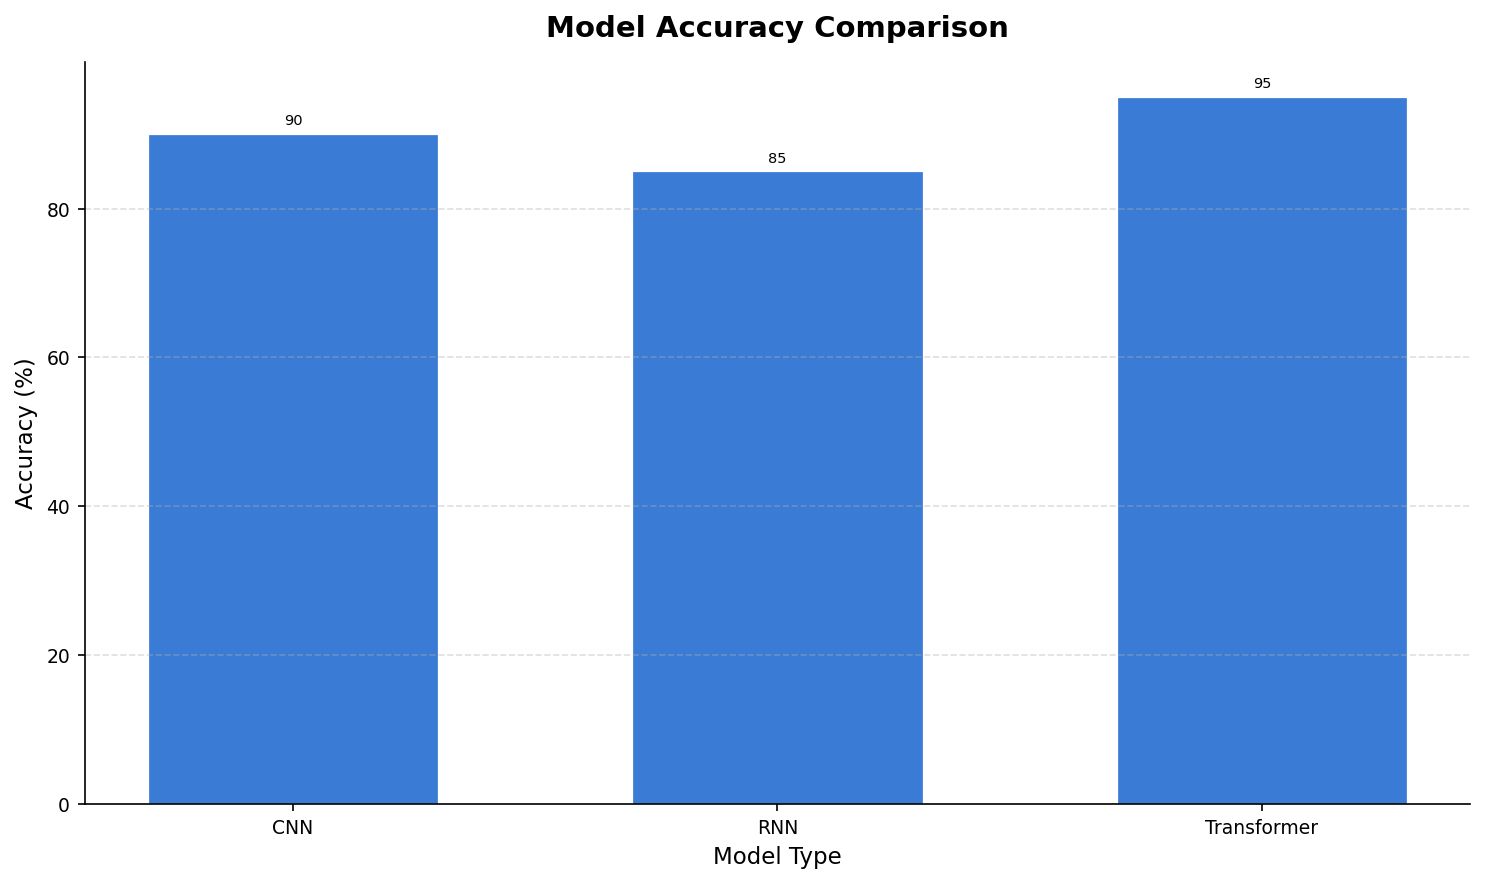
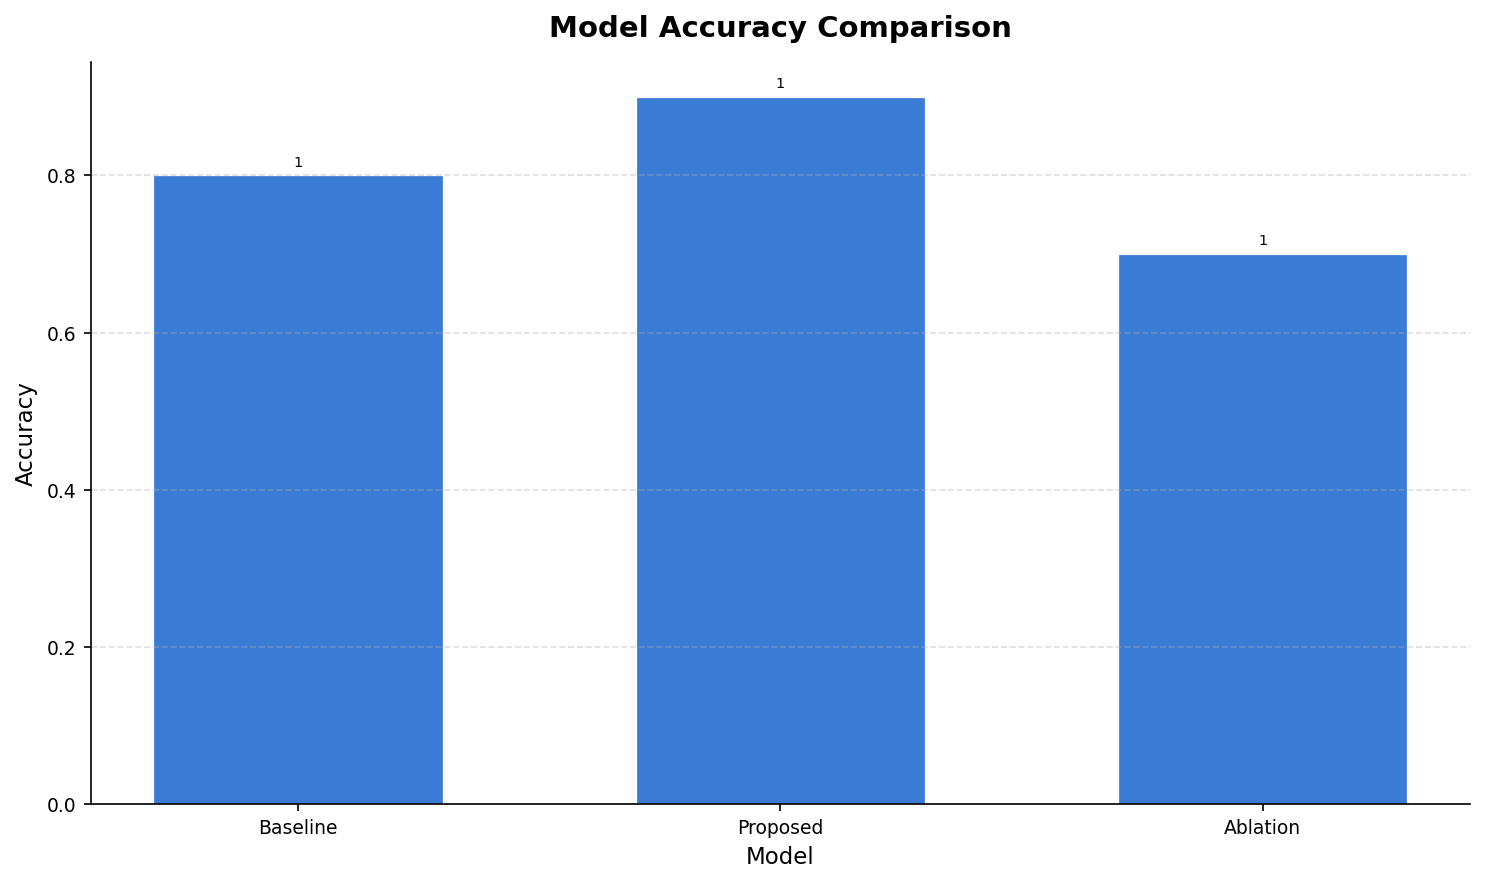
fix : fixing the download for visualisations ,and the upload of papers

diff --git a/orchestrator/nodes/literature_node.py b/orchestrator/nodes/literature_node.py
@@ -1,15 +1,14 @@
 """
 orchestrator/nodes/literature_node.py
 ──────────────────────────────────────
-Calls LiteratureAgent directly.
+Calls LiteratureAgent directly — avoids file I/O round-trip.
 
-Web resource handling is now entirely delegated to the literature agent:
-  • grounded_only=True  → agent uses ChromaDB / local PDFs only
-  • grounded_only=False → agent fetches web resources itself
+If search_results are already in state (populated by search_node),
+their PDF/abstract URLs are extracted and passed as web_urls so the
+LiteratureAgent can fetch and chunk them via process_web_resources.
 
-The orchestrator no longer extracts URLs from search_results or
-passes web_urls — that logic lived here only to compensate for the
-old search_node detour, which has been removed.
+This is the only interface the unmodified LiteratureAgent exposes for
+injecting external content — AgentInput.use_web_resources + web_urls.
 """
 
 from __future__ import annotations
@@ -22,6 +21,36 @@ from literature_agent.agent import LiteratureAgent
 from literature_agent.config import AgentInput
 
 logger = logging.getLogger(__name__)
+
+# Maximum number of paper URLs to feed into the agent.
+# process_web_resources fetches each URL synchronously, so keep this
+# bounded to avoid multi-minute runtimes.
+_MAX_WEB_URLS = 8
+
+
+def _extract_urls_from_papers(papers: list[dict]) -> list[str]:
+    """
+    Pull the best available URL out of each search-result paper dict.
+
+    Priority order:
+      1. pdf_link  — direct PDF (highest quality for chunking)
+      2. url       — abstract / landing page (fallback)
+
+    Only HTTP(S) URLs are included; None / empty strings are skipped.
+    Deduplication preserves order.
+    """
+    seen: set[str] = set()
+    urls: list[str] = []
+
+    for paper in papers:
+        for key in ("pdf_link", "url"):
+            candidate = (paper.get(key) or "").strip()
+            if candidate.startswith("http") and candidate not in seen:
+                seen.add(candidate)
+                urls.append(candidate)
+                break               # one URL per paper is enough
+
+    return urls[:_MAX_WEB_URLS]
 
 
 def _run_agent(input_data: AgentInput):
@@ -37,7 +66,7 @@ def literature_node(state: GraphState) -> dict:
     prefs = state.get("preferences", {})
     instruction = state.get("instruction") or state["user_message"]
 
-    # ── Append HITL feedback when regenerating ────────────────────────────────
+    # ── Build query (append HITL feedback when regenerating) ─────────────────
     query = instruction
     if state.get("hitl_feedback"):
         query = f"{query}\n\nFeedback: {state['hitl_feedback']}"
@@ -45,21 +74,57 @@ def literature_node(state: GraphState) -> dict:
     citation_style = prefs.get("citation_style", "APA")
     grounded_only = prefs.get("grounded_only", False)
 
-    # ── Delegate entirely to the literature agent ─────────────────────────────
-    # grounded_only=True  → use_web_resources=False → ChromaDB / local PDFs only
-    # grounded_only=False → use_web_resources=True  → agent fetches web resources
-    # web_urls is always empty — the agent resolves its own sources internally
+    # ── Derive web_urls from search_results ───────────────────────────────────
+    # search_node populates state["search_results"] as List[dict] with keys:
+    #   title, authors, abstract, pdf_link, url, year, citations, source
+    #
+    # The unmodified LiteratureAgent has NO pre_fetched_papers parameter.
+    # Its only external-content hook is:
+    #   AgentInput(use_web_resources=True, web_urls=[...])
+    # which routes through load_documents → process_web_resources.
+    #
+    # So we convert paper records → URLs here in the orchestrator layer.
+    pre_fetched_papers = state.get("search_results") or []
+    web_urls: list[str] = []
+
+    if pre_fetched_papers and not grounded_only:
+        web_urls = _extract_urls_from_papers(pre_fetched_papers)
+        logger.info(
+            "literature_node: extracted %d web_urls from %d search_results",
+            len(web_urls), len(pre_fetched_papers),
+        )
+
+    # use_web_resources must be True whenever we have URLs to fetch,
+    # regardless of the grounded_only flag (grounded_only only suppresses
+    # the upstream search_node — if we already have results we use them).
+    use_web_resources = bool(web_urls) or (not grounded_only)
+
+    # ── Resolve papers_folder for locally uploaded PDFs ──────────────────────
+    # Uploads are stored in uploads/{project_id}/ (absolute path).
+    # Pass this as papers_folder so AgentConfig reads the right directory.
+    from pathlib import Path as _Path
+    upload_dir = _Path("uploads").resolve() / project_id
+    papers_folder = str(upload_dir) if upload_dir.exists() else None
+
     input_data = AgentInput(
         query=query,
         citation_style=citation_style,
-        use_web_resources=not grounded_only,
+        use_web_resources=use_web_resources,
         use_ocr=False,
-        web_urls=[],
+        web_urls=web_urls,          # ← online papers from search_node
     )
 
+    # Override papers_folder on the agent config if we have local uploads
+    if papers_folder:
+        logger.info(
+            "literature_node: using local papers_folder=%s", papers_folder
+        )
+        import os as _os
+        _os.environ["LITERATURE_PAPERS_FOLDER"] = papers_folder
+
     logger.info(
-        "literature_node: calling agent | use_web_resources=%s | query=%r",
-        not grounded_only, query[:80],
+        "literature_node: calling agent | use_web_resources=%s | %d urls | query=%r",
+        use_web_resources, len(web_urls), query[:80],
     )
 
     try:
@@ -69,8 +134,9 @@ def literature_node(state: GraphState) -> dict:
         return {"error": f"Literature agent error: {exc}", "agent_output": None}
 
     if not output.success:
-        logger.error("Literature agent returned failure: %s",
-                     output.error_message)
+        logger.error(
+            "Literature agent returned failure: %s", output.error_message
+        )
         return {"error": output.error_message, "agent_output": None}
 
     # ── Persist to DB ─────────────────────────────────────────────────────────
@@ -118,6 +184,15 @@ def literature_node(state: GraphState) -> dict:
             f"\n\n⚠ **Verification: {overall}** — "
             f"{unverified_count} claim(s) could not be grounded in source documents."
         )
+
+    # ── Debug (keep until stable) ─────────────────────────────────────────────
+    print(f"\n🔍 output.success       = {output.success}")
+    print(f"🔍 output.error_message = {repr(output.error_message)}")
+    print(f"🔍 web_urls fed         = {web_urls}")
+    print(
+        f"🔍 output.literature_review length  = {len(output.literature_review or '')}")
+    print(
+        f"🔍 output.literature_review preview = {repr((output.literature_review or '')[:200])}")
 
     existing = state.get("agent_outputs", {})
 

diff --git a/api/routes/uploads.py b/api/routes/uploads.py
@@ -3,11 +3,18 @@ api/routes/uploads.py
 ──────────────────────
 PDF upload management for the LiteratureAgent.
 
-The LiteratureAgent reads PDFs from config.papers_folder (set in AgentConfig).
-We store uploaded files under:
-    uploads/{project_id}/
+Critical design note
+─────────────────────
+LiteratureAgent.load_documents() reads from AgentConfig.papers_folder.
+We must store uploads in that exact folder so the agent finds them.
 
-This keeps papers scoped per project so different projects don't share PDFs.
+The literature_node passes web_urls extracted from search_results for
+online papers. For LOCAL uploaded PDFs, the agent reads them from disk
+via load_documents() → process_pdfs_with_metadata().
+
+Upload path: uploads/{project_id}/{filename}.pdf
+This path is passed to literature_node via state["preferences"]["papers_folder"]
+so AgentConfig can be initialized with the correct folder per project.
 """
 
 from __future__ import annotations
@@ -18,15 +25,17 @@ from pathlib import Path
 from fastapi import APIRouter, Depends, HTTPException, Response, UploadFile, File
 
 from api.dependencies import verify_project_access
+from database import repository as repo
 
 router = APIRouter(tags=["uploads"])
 
-# Base upload directory — matches what LiteratureAgent's AgentConfig points to.
-# Override in settings if needed.
-_UPLOAD_BASE = Path("uploads")
+# Base upload directory — one subfolder per project
+# absolute so agent can always find it
+_UPLOAD_BASE = Path("uploads").resolve()
 
 
 def _project_dir(project_id: str) -> Path:
+    """Return and create the upload directory for a project."""
     d = _UPLOAD_BASE / project_id
     d.mkdir(parents=True, exist_ok=True)
     return d
@@ -42,23 +51,35 @@ async def upload_pdf(
 ) -> dict:
     """
     Upload a PDF for the literature agent to process.
-    Accepts only .pdf files. Max size enforced by the web server (nginx/uvicorn).
+    File is saved to uploads/{project_id}/ with its original name.
+    Duplicate filenames are overwritten (idempotent).
     """
     if not file.filename or not file.filename.lower().endswith(".pdf"):
         raise HTTPException(
             status_code=400, detail="Only PDF files are accepted")
 
-    dest = _project_dir(project_id) / file.filename
+    # Sanitize filename — strip path components to prevent directory traversal
+    safe_name = Path(file.filename).name
+    if not safe_name or not safe_name.lower().endswith(".pdf"):
+        raise HTTPException(status_code=400, detail="Invalid filename")
+
+    dest = _project_dir(project_id) / safe_name
     try:
-        with dest.open("wb") as f:
-            shutil.copyfileobj(file.file, f)
+        with dest.open("wb") as out:
+            shutil.copyfileobj(file.file, out)
+    except OSError as exc:
+        raise HTTPException(
+            status_code=500, detail=f"Could not save file: {exc}")
     finally:
         await file.close()
 
     return {
-        "filename":   file.filename,
-        "path":       str(dest),
-        "project_id": project_id,
+        "filename":     safe_name,
+        "path":         str(dest),          # absolute path
+        "project_id":   project_id,
+        "size_bytes":   dest.stat().st_size,
+        # pass this to literature agent
+        "papers_folder": str(_project_dir(project_id)),
     }
 
 
@@ -68,17 +89,26 @@ async def upload_pdf(
 def list_pdfs(
     project_id: str,
     project: dict = Depends(verify_project_access),
-) -> list[dict]:
-    """List all PDFs uploaded for this project."""
+) -> dict:
+    """
+    List all PDFs uploaded for this project.
+    Also returns papers_folder so the frontend knows where to point the agent.
+    """
     d = _project_dir(project_id)
-    return [
+    files = [
         {
-            "filename": p.name,
+            "filename":   p.name,
             "size_bytes": p.stat().st_size,
-            "path": str(p),
+            "path":       str(p),
         }
         for p in sorted(d.glob("*.pdf"))
     ]
+    return {
+        "project_id":    project_id,
+        "papers_folder": str(d),
+        "count":         len(files),
+        "files":         files,
+    }
 
 
 # ── Delete ────────────────────────────────────────────────────────────────────
@@ -90,10 +120,15 @@ def delete_pdf(
     project: dict = Depends(verify_project_access),
 ) -> Response:
     """Remove a specific PDF from the project's upload folder."""
-    target = _project_dir(project_id) / filename
-    if not target.exists():
+    # Sanitize to prevent path traversal
+    safe_name = Path(filename).name
+    if not safe_name.lower().endswith(".pdf"):
+        raise HTTPException(
+            status_code=400, detail="Only PDF files can be deleted")
+
+    target = _project_dir(project_id) / safe_name
+    if not target.exists() or not target.is_file():
         raise HTTPException(status_code=404, detail="File not found")
-    if not target.is_file() or not filename.lower().endswith(".pdf"):
-        raise HTTPException(status_code=400, detail="Invalid file")
+
     target.unlink()
     return Response(status_code=204)

diff --git a/api/routes/data.py b/api/routes/data.py
@@ -173,18 +173,59 @@ def download_visualization(
     if not viz:
         raise HTTPException(status_code=404, detail="Visualization not found")
 
-    file_path = Path(viz.get("file_path", ""))
+    raw_path = viz.get("file_path", "")
+    if not raw_path:
+        raise HTTPException(
+            status_code=404, detail="No file path stored for this visualization")
+
+    file_path = Path(raw_path)
+
+    # If the stored path is relative, resolve it against the project root.
+    # The visualization module saves to visualization/outputs/ relative to CWD
+    # when the graph ran — which is the Cowritex project root.
+    if not file_path.is_absolute():
+        # Try resolving from CWD first (works if server started from project root)
+        resolved = Path.cwd() / file_path
+        if not resolved.exists():
+            # Fallback: try common project root locations
+            for base in [Path.cwd(), Path.cwd().parent, Path("/home/djabir-houaria/Cowritex")]:
+                candidate = base / file_path
+                if candidate.exists():
+                    resolved = candidate
+                    break
+        file_path = resolved
+
     if not file_path.exists():
-        raise HTTPException(status_code=404, detail="File not found on disk")
+        logger.error(
+            "Visualization file not found. stored_path=%r resolved=%s cwd=%s",
+            raw_path, file_path, Path.cwd()
+        )
+        raise HTTPException(
+            status_code=404,
+            detail=f"File not found on disk. Stored path: {raw_path}"
+        )
 
     media_map = {
         "png":   "image/png",
         "pdf":   "application/pdf",
         "latex": "application/x-latex",
     }
+    # Extension map: export_format stored in DB → actual file extension on disk
+    # "latex" format → file saved as .tex by export_latex_chart()
+    ext_map = {
+        "png":   "png",
+        "pdf":   "pdf",
+        "latex": "tex",   # ← critical: format="latex" but file is .tex not .latex
+    }
     fmt = viz.get("export_format", "png")
     media = media_map.get(fmt, "application/octet-stream")
-    filename = f"{viz.get('title', 'visualization')}.{fmt}"
+    ext = ext_map.get(fmt, fmt)
+    # Use the actual file's suffix if available — most reliable
+    actual_suffix = file_path.suffix.lstrip(".")
+    if actual_suffix:
+        ext = actual_suffix
+    safe_title = (viz.get("title") or "visualization").replace(" ", "_")
+    filename = f"{safe_title}.{ext}"
 
     return FileResponse(path=str(file_path), media_type=media, filename=filename)
 

diff --git a/orchestrator/nodes/visualisation_node.py b/orchestrator/nodes/visualisation_node.py
@@ -124,11 +124,9 @@ def visualisation_node(state: GraphState) -> dict:
             "last_agent":   "visualisation",
         }
 
-    # ── Resolve to absolute path before persisting ──
-    # Visualization module returns a relative path (visualization/outputs/...)
-    # Store absolute path so the download endpoint works regardless of CWD.
-    from pathlib import Path as _Path
-    file_path = str(_Path(file_path).resolve())
+    # export.py already returns str(out_path.resolve()) — absolute path.
+    # Ensure it's stored as string for DB.
+    file_path = str(file_path)
 
     # ── Persist to DB ──
     try:
